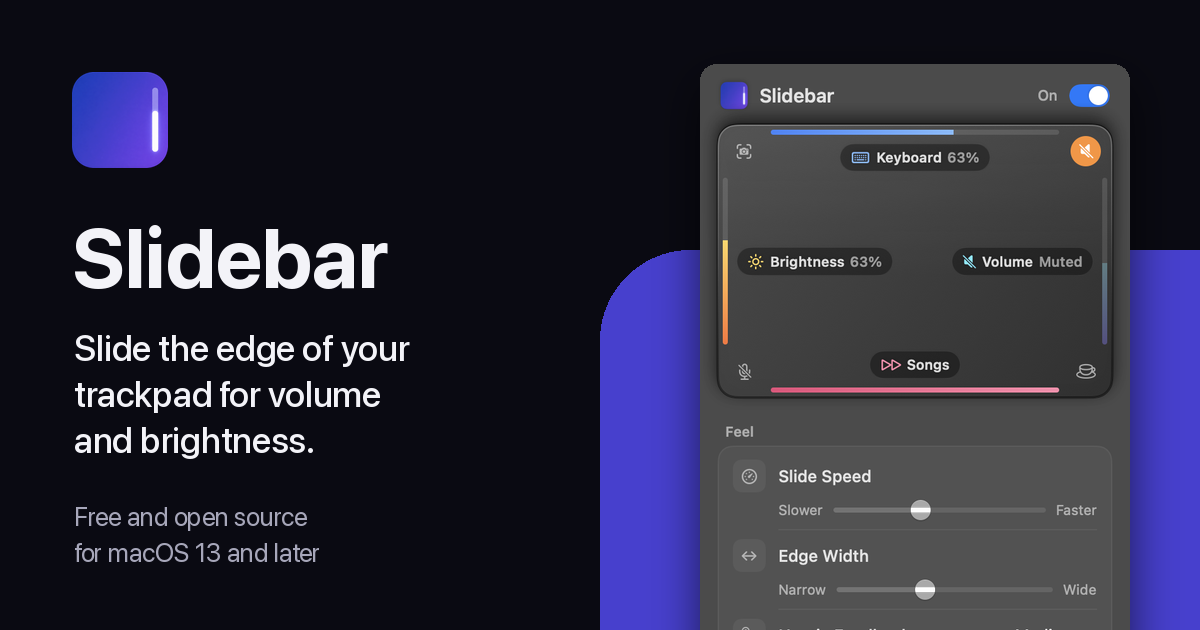
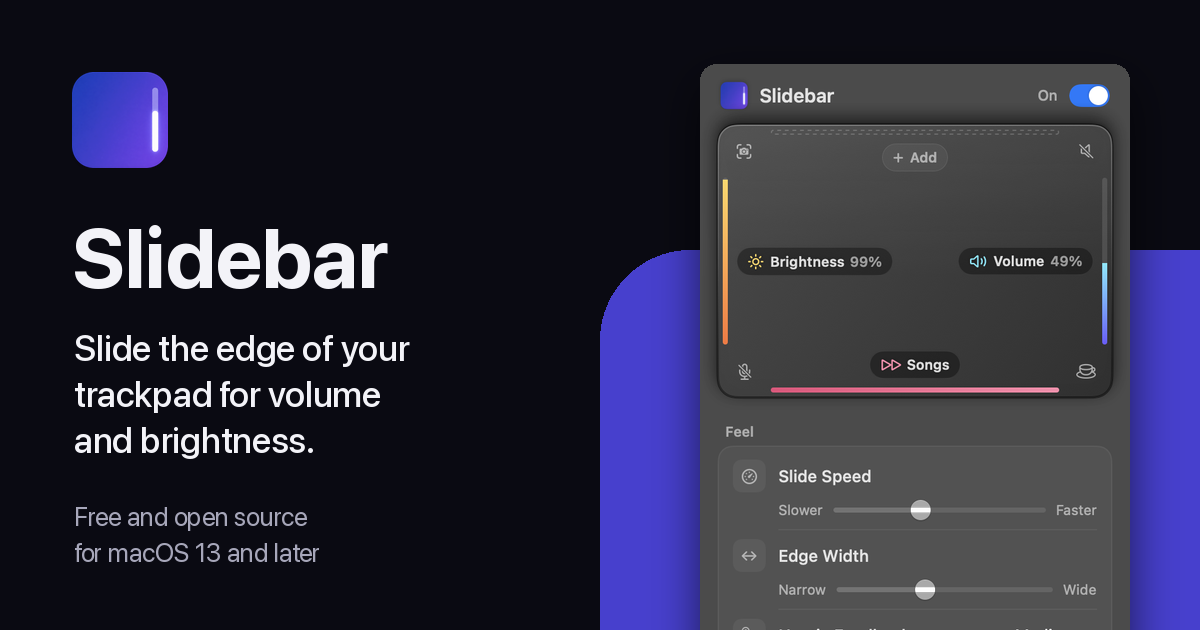
Redraw the welcome window to match the new look
The guide still had the Brim-era midnight header and line drawing, so the
website showed an outdated window. It now uses the icon's indigo and the same
trackpad drawing as the menu: edge strips, label chips and a fingertip that
fills the volume strip as it slides. Screenshots render the demo at rest.

The website's screenshots and social image are re-rendered with the default
setup (brightness left, volume right).

diff --git a/Sources/Slidebar/Views/SetupView.swift b/Sources/Slidebar/Views/SetupView.swift
@@ -12,8 +12,10 @@ struct SetupView: View {
     var body: some View {
         VStack(spacing: 0) {
             ZStack {
-                NightBackground(cornerRadius: 0)
-                VStack(spacing: 14) {
+                // The app icon's indigo-to-violet, so the guide feels like the icon opened up.
+                LinearGradient(colors: [Color(red: 0.11, green: 0.13, blue: 0.42), Color(red: 0.26, green: 0.15, blue: 0.56)],
+                               startPoint: .topLeading, endPoint: .bottomTrailing)
+                VStack(spacing: 16) {
                     HStack(spacing: 10) {
                         AppIconView(size: 34)
                         VStack(alignment: .leading, spacing: 1) {
@@ -22,12 +24,12 @@ struct SetupView: View {
                                 .accessibilityAddTraits(.isHeader)
                             Text("Slide along the edges of your trackpad to change things like volume and brightness. You choose what each edge and corner does.")
                                 .font(.system(size: 12))
-                                .foregroundStyle(.white.opacity(0.72))
+                                .foregroundStyle(.white.opacity(0.82))
                         }
                         Spacer()
                     }
                     TrackpadDemo(left: prefs.edge(.left), right: prefs.edge(.right), bottom: prefs.edge(.bottom))
-                        .frame(height: 180)
+                        .frame(height: 190)
                 }
                 .foregroundStyle(.white)
                 .padding(.horizontal, 24)
@@ -139,13 +141,15 @@ private struct StepRow<Accessory: View>: View {
     }
 }
 
-/// A trackpad showing a finger sliding up the volume edge. Still under Reduce Motion.
+/// The trackpad from the menu, with a fingertip sliding up the volume edge and its strip filling
+/// as it goes. Still under Reduce Motion.
 private struct TrackpadDemo: View {
     let left: EdgeFunction
     let right: EdgeFunction
     let bottom: EdgeFunction
     @State private var up = false
     @Environment(\.accessibilityReduceMotion) private var reduceMotion
+    @Environment(\.snapshotMode) private var snapshotMode
 
     /// Demonstrate on the volume edge when there is one, otherwise the right edge.
     private var fingerOnLeft: Bool { left == .volume && right != .volume || (right == .off && left != .off) }
@@ -153,51 +157,68 @@ private struct TrackpadDemo: View {
     var body: some View {
         GeometryReader { geo in
             let w = geo.size.width, h = geo.size.height
-            ZStack {
-                RoundedRectangle(cornerRadius: 18, style: .continuous)
-                    .fill(Color.primary.opacity(0.05))
-                RoundedRectangle(cornerRadius: 18, style: .continuous)
-                    .strokeBorder(Color.primary.opacity(0.15), lineWidth: 1.5)
+            let inset: CGFloat = 40, strip: CGFloat = 4
+            let trackLength = h - 2 * inset
+            ZStack(alignment: .topLeading) {
+                TrackpadSurface()
 
-                if left != .off { edge(colors: left.levelColors, label: left.shortTitle, x: 18, h: h) }
-                if right != .off { edge(colors: right.levelColors, label: right.shortTitle, x: w - 18, h: h) }
-
+                if left != .off { sideEdge(left, x: 4, length: trackLength, top: inset, isDemo: fingerOnLeft) }
+                if right != .off { sideEdge(right, x: w - 4 - strip, length: trackLength, top: inset, isDemo: !fingerOnLeft) }
                 if bottom != .off {
-                    Capsule().fill(Color.primary.opacity(0.18))
-                        .frame(width: 70, height: 4)
-                        .position(x: w / 2, y: h - 12)
-                    Text(bottom.shortTitle).font(.system(size: 10)).foregroundStyle(.secondary)
-                        .position(x: w / 2, y: h - 25)
+                    Capsule().fill(LinearGradient(colors: bottom.mapColors, startPoint: .leading, endPoint: .trailing))
+                        .frame(width: w - 2 * inset - 40, height: strip)
+                        .offset(x: inset + 20, y: h - 4 - strip)
+                    chip(bottom).frame(width: w).offset(y: h - 4 - strip - 32)
                 }
 
+                // The fingertip, riding the top of the demo edge's level.
+                let level = up ? 0.82 : 0.22
                 Circle()
                     .fill(Color.white)
-                    .shadow(color: .black.opacity(0.35), radius: 4, y: 2)
-                    .overlay(Circle().stroke(Color.primary.opacity(0.15)))
+                    .shadow(color: .black.opacity(0.4), radius: 4, y: 2)
                     .frame(width: 22, height: 22)
-                    .position(x: fingerOnLeft ? 18 : w - 18, y: up ? h * 0.25 : h * 0.78)
+                    .offset(x: (fingerOnLeft ? 4 + strip / 2 : w - 4 - strip / 2) - 11,
+                            y: inset + trackLength * (1 - level) - 11)
             }
+            .clipShape(TrackpadSurface.shape.inset(by: -12))
         }
+        .environment(\.colorScheme, .dark)
         .accessibilityElement()
         .accessibilityLabel("Illustration: a finger slides up the \(fingerOnLeft ? "left" : "right") edge of the trackpad.")
         .onAppear {
-            guard !reduceMotion else { up = true; return }
+            guard !reduceMotion, !snapshotMode else { up = true; return }
             withAnimation(.easeInOut(duration: 1.4).repeatForever(autoreverses: true)) { up = true }
         }
     }
 
-    private func edge(colors: [Color], label: String, x: CGFloat, h: CGFloat) -> some View {
-        ZStack {
-            Capsule()
-                .fill(LinearGradient(colors: colors, startPoint: .bottom, endPoint: .top))
-                .frame(width: 6, height: h - 50)
-                .position(x: x, y: h / 2)
-            Text(label)
-                .font(.system(size: 10, weight: .medium))
-                .foregroundStyle(.secondary)
-                .rotationEffect(.degrees(-90))
+    /// A side edge: a dim track, a colored fill to the current level, and its label chip beside it.
+    private func sideEdge(_ function: EdgeFunction, x: CGFloat, length: CGFloat, top: CGFloat, isDemo: Bool) -> some View {
+        let level: CGFloat = isDemo ? (up ? 0.82 : 0.22) : 0.6
+        return ZStack(alignment: .topLeading) {
+            Capsule().fill(Color.white.opacity(0.14))
+                .frame(width: 4, height: length)
+            Capsule().fill(LinearGradient(colors: function.mapColors, startPoint: .bottom, endPoint: .top))
+                .frame(width: 4, height: length * level)
+                .offset(y: length * (1 - level))
+                .shadow(color: (function.mapColors.last ?? .clear).opacity(isDemo ? 0.8 : 0), radius: 5)
+            chip(function)
                 .fixedSize()
-                .position(x: x < 50 ? x + 18 : x - 18, y: h / 2)
+                .offset(x: x < 40 ? 14 : -14, y: length / 2 - 12)
+                .frame(width: 4, alignment: x < 40 ? .leading : .trailing)
         }
+        .offset(x: x, y: top)
+    }
+
+    private func chip(_ function: EdgeFunction) -> some View {
+        HStack(spacing: 4) {
+            Image(systemName: function.icon).foregroundStyle(function.mapColors[1])
+            Text(function.shortTitle)
+        }
+        .font(.system(size: 11, weight: .semibold))
+        .foregroundStyle(.white)
+        .padding(.horizontal, 8)
+        .padding(.vertical, 4)
+        .background(Capsule().fill(Color.black.opacity(0.34)))
+        .overlay(Capsule().strokeBorder(Color.white.opacity(0.09), lineWidth: 0.5))
     }
 }
